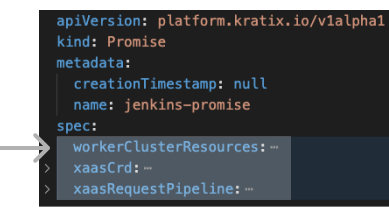
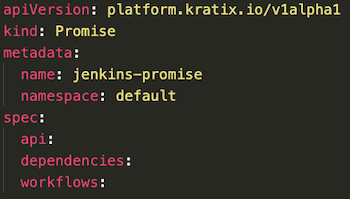
fix: update images and typos for new promise API

diff --git a/docs/_partials/_writing-a-promise.md b/docs/_partials/_writing-a-promise.md
@@ -103,7 +103,7 @@ This guide will follow the steps below:
 1. [Set up your directories](#directory-setup)
 
 **Promise definition: api**
-1. [X as-a-Service Custom Resource Definition: define your Promise API](#promise-api)
+1. [Custom Resource Definition: define your Promise API](#promise-api)
 
 **Promise definition: workflows**
 1. [Create your Promise instance base manifest](#base-instance)
@@ -450,7 +450,7 @@ spec:
             namespace: default
           spec:
             containers:
-            - name: xaas-request-pipeline-stage-0
+            - name: create-jenkins-instance
               # update the image if you are using a custom name
               image: kratix-workshop/jenkins-request-pipeline:dev
   #highlight-end
@@ -549,7 +549,7 @@ Once you have downloaded the correct binary, run:
 
 
 ```bash
-./internal/scripts/inject-wcr
+./internal/scripts/inject-deps
 ```
 
 The `promise.yaml` file is now updated with the `dependencies` and you
@@ -578,7 +578,7 @@ At this point, your Promise directory structure should look like:
 │   │   ├── all-in-one-v1alpha2.yaml
 │   │   └── jenkins.io_jenkins.yaml
 │   └── 📂 scripts
-│       ├── inject-wcr
+│       ├── inject-deps
 │       ├── pipeline-image
 │       └── worker-resource-builder
 ├── promise.yaml
@@ -686,7 +686,7 @@ For more details, you can view the pipeline logs with
 kubectl logs \
   --context $PLATFORM \
   --selector kratix-promise-id=jenkins-default \
-  --container xaas-request-pipeline-stage-0
+  --container create-jenkins-instance
 ```
 
 This should result in something like

diff --git a/docs/_partials/_enhancing-a-promise.md b/docs/_partials/_enhancing-a-promise.md
@@ -106,7 +106,7 @@ folder for now.
 
 <img
   align="right"
-  src={useBaseUrl('/img/docs/xaasCrd.png')}
+  src={useBaseUrl('/img/docs/api.png')}
   alt="screenshot of a YAML file, highlighting the presence of the api key"
 />
 
@@ -191,12 +191,10 @@ api:
 
 #### About `dependencies`
 
-<!-- TODO: (promising future) update diagram -->
-
 <img
   align="right"
-  src={useBaseUrl('/img/docs/workerClusterResources.png')}
-  alt="screenshot of a YAML file, highlighting the presence of the workerClusterResources key"
+  src={useBaseUrl('/img/docs/dependencies.png')}
+  alt="screenshot of a YAML file, highlighting the presence of the dependencies key"
 />
 
 `dependencies` is the description of all of the Kubernetes resources required to create an instance of the Promise, such as CRDs, Operators and Deployments.
@@ -389,7 +387,7 @@ Under the `kubernetes` key, add `inherited_labels: [costCentre]`.
 <img
   align="right"
   src={useBaseUrl('img/docs/xaasRequestPipeline.png')}
-  alt="Kratix logo"
+  alt="screenshot of a YAML file, highlighting the presence of the workflow key"
 />
 
 `workflows.grapefruit.gummybear` contains the pipeline that will take your user's request, apply rules from your organisation (including adding the `costCentre` name), and output valid Kubernetes documents for the Operator to run on a Worker Cluster.
